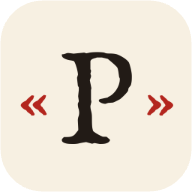
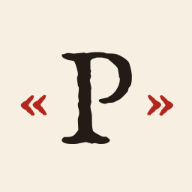
Iconos sin esquinas oscuras y botón «Pista: desvelar una palabra»
El favicon y los iconos de 192 y 512 tenían las esquinas transparentes y
Safari las pintaba oscuras; ahora son del color de fondo del logo. La
portada usa una copia con las esquinas redondeadas (logo-portada.png).

diff --git a/app.js b/app.js
@@ -538,7 +538,7 @@
       '<ul class="reglas__lista">' +
       '<li>Bajo el texto verás el <b>esqueleto</b> del refrán: una casilla por palabra, con un hueco por letra.</li>' +
       '<li>Toca el esqueleto y escribe el refrán: las letras irán llenando los huecos y las palabras destapadas se saltan solas. No importan las tildes, las mayúsculas ni alguna errata.</li>' +
-      '<li><b>Destapar palabra</b> te da una pista, pero el refrán vale menos: 3 puntos sin pistas, 2 con una y 1 con más. Si te rindes, 0.</li>' +
+      '<li><b>Pista: desvelar una palabra</b> te enseña una palabra del refrán, pero el refrán vale menos: 3 puntos sin pistas, 2 con una y 1 con más. Si te rindes, 0.</li>' +
       '<li>Fallar no penaliza: prueba cuantas veces quieras.</li>' +
       '</ul>' +
       '</div>';
@@ -569,7 +569,7 @@
       '<p class="respuesta__mensaje" id="mensaje" role="status" aria-live="polite">Toca los huecos y escribe el refrán.</p>' +
       '<button class="btn btn--grande" type="submit">Comprobar</button>' +
       '<div class="respuesta__ayudas">' +
-      '<button class="btn btn--sec" id="btn-pista" type="button">Destapar palabra</button>' +
+      '<button class="btn btn--sec" id="btn-pista" type="button">Pista: desvelar una palabra</button>' +
       '<button class="btn btn--sec btn--rendirse" id="btn-rendirse" type="button">Me rindo</button>' +
       '</div>' +
       '<div id="valor">' + htmlValor(r.pistas) + '</div>' +

diff --git a/index.html b/index.html
@@ -15,11 +15,11 @@
   <link rel="preconnect" href="https://fonts.googleapis.com">
   <link rel="preconnect" href="https://fonts.gstatic.com" crossorigin>
   <link href="https://fonts.googleapis.com/css2?family=EB+Garamond:ital,wght@0,400;0,500;0,600;1,400&family=IM+Fell+English:ital@0;1&family=IM+Fell+English+SC&display=swap" rel="stylesheet">
-  <link rel="stylesheet" href="styles.css?v=4">
+  <link rel="stylesheet" href="styles.css?v=5">
 </head>
 <body>
   <div id="portada" aria-hidden="true">
-    <img class="portada__logo" src="icons/icon-512.png" width="128" height="128" alt="">
+    <img class="portada__logo" src="icons/logo-portada.png" width="128" height="128" alt="">
     <p class="portada__nombre">Paremia</p>
   </div>
   <div class="hoja">
@@ -45,6 +45,6 @@
   <div class="aviso" id="aviso" role="status" aria-live="polite"></div>
 
   <script src="volver-almanaque.js?v=1" defer></script>
-  <script src="app.js?v=3"></script>
+  <script src="app.js?v=4"></script>
 </body>
 </html>

diff --git a/sw.js b/sw.js
@@ -3,7 +3,7 @@
    (ver README). Red primero para el juego (así los refranes nuevos llegan en cuanto
    se publican) y copia guardada si no hay conexión. */
 
-const CACHE_VERSION = 'v4';
+const CACHE_VERSION = 'v5';
 const CACHE = `paremia-${CACHE_VERSION}`;
 
 const ARCHIVOS = [
@@ -18,6 +18,7 @@ const ARCHIVOS = [
   './icons/favicon-32.png',
   './icons/icon-192.png',
   './icons/icon-512.png',
+  './icons/logo-portada.png',
   './icons/icon-maskable-192.png',
   './icons/icon-maskable-512.png',
   './icons/apple-touch-icon.png'
